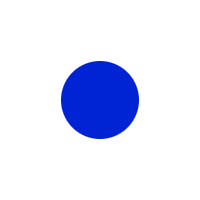
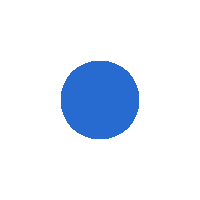
Ajout de textures

Changed region(s): [[0.3, 0.3, 0.72, 0.72]]

diff --git a/src/Game/Game.cpp b/src/Game/Game.cpp
@@ -16,6 +16,7 @@ using std::cerr;
 using std::endl;
 
 vector<Button*> buttons;
+vector<Label*> labels;
 vector<Image*> images;
 Actor* actor;
 
@@ -90,13 +91,15 @@ bool Game::loadRequieredResources()
 	float time = glfwGetTime();
 	std::vector<string> assets = {
 		"white_texture.png", "black_texture.png", "home_background.png",
-		"space_background.png", "bomberboy_1.png", "bomberboy_2.png"
+		"space_background.png", "bomberboy_1.png", "bomberboy_2.png",
+		"blue_rectangle.png"
 	};
 	std::vector<Texture*> textures = {
 		&Textures::whiteTexture, &Textures::blackTexture, &Textures::homeBackground,
-		&Textures::spaceBackground, &Textures::bomberboy1, &Textures::bomberboy2
+		&Textures::spaceBackground, &Textures::bomberboy1, &Textures::bomberboy2,
+		&Textures::blueRectangle
 	};
-	for (int i = 0; i < assets.size(); i++) {
+	for (uint i = 0; i < assets.size(); i++) {
 		if (!Resource::loadTexture(("assets/"+assets[i]).c_str(), *textures[i])) {
 			cerr << "Failed to load " << assets[i] << endl;
 			glfwTerminate();
@@ -137,6 +140,7 @@ void Game::setState(GameState state)
 {
 	for (auto image : images) { delete image; } images.clear();
 	for (auto button : buttons) { delete button; } buttons.clear();
+	for (auto label : labels) { delete label; } labels.clear();
 	switch (state)
 	{
 	/**
@@ -177,7 +181,7 @@ void Game::setState(GameState state)
 	} break;
 
 	/**
-	 * @brief Load the main menu
+	 * @brief Load the singeplayer menu
 	 */
 	case GameState::SINGLEPLAYER: {
 		cerr << "Loading singleplayer menu..." << endl; float time = glfwGetTime();
@@ -196,7 +200,12 @@ void Game::setState(GameState state)
 			game->setState(GameState::MAIN_MENU);
 		});
 
+		/* Load Labels */
+		labels.push_back(new Label(mainWindow, vec2(150, 0), vec2(0.25f, 0.5f), "Taille de la map", 32, (char *)"assets/fonts/bomberman.ttf", ALIGN_CENTER | ALIGN_MIDDLE));
+
 		/* Load Images */
+		images.push_back(new Image(mainWindow, vec2(0, 0), vec2(0.5f, 0.5f), vec2(WINDOW_W/2), &Textures::blueRectangle));
+
 		images.push_back(new Image(mainWindow, vec2(0, 0), vec2(0.0f, 0.5f), vec2(WINDOW_W/4), &Textures::bomberboy1));
 		images.push_back(new Image(mainWindow, vec2(0, 0), vec2(0.5f, 0.5f), vec2(WINDOW_W), &Textures::spaceBackground));
 
@@ -249,6 +258,7 @@ void Game::update()
 	processInputs(mainWindow->getWindow());
 
 	Wall* wall = new Wall(map); wall->draw(); delete wall;
+	for (auto label : labels) { label->draw(); }
 	for (auto button : buttons) { button->draw(); }
 	for (auto image : images) { image->draw(); }
 	switch (m_gameState)

diff --git a/include/Engine/Texture.hpp b/include/Engine/Texture.hpp
@@ -11,6 +11,7 @@ namespace Textures {
     static Texture blackTexture;
 	static Texture homeBackground;
 	static Texture spaceBackground;
+	static Texture blueRectangle;
 	static Texture bomberboy1;
 	static Texture bomberboy2;
 }
